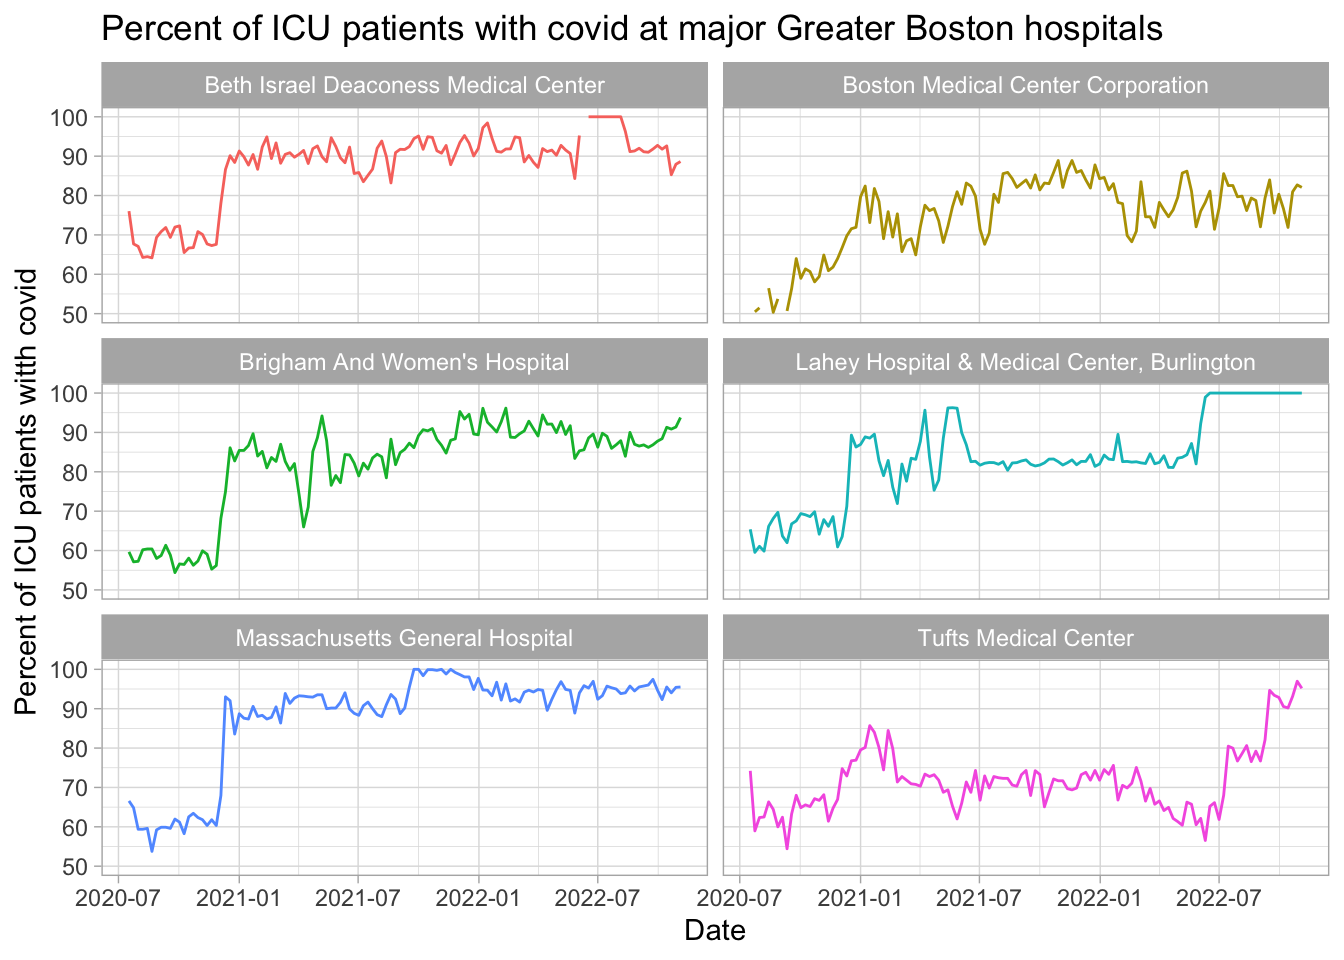
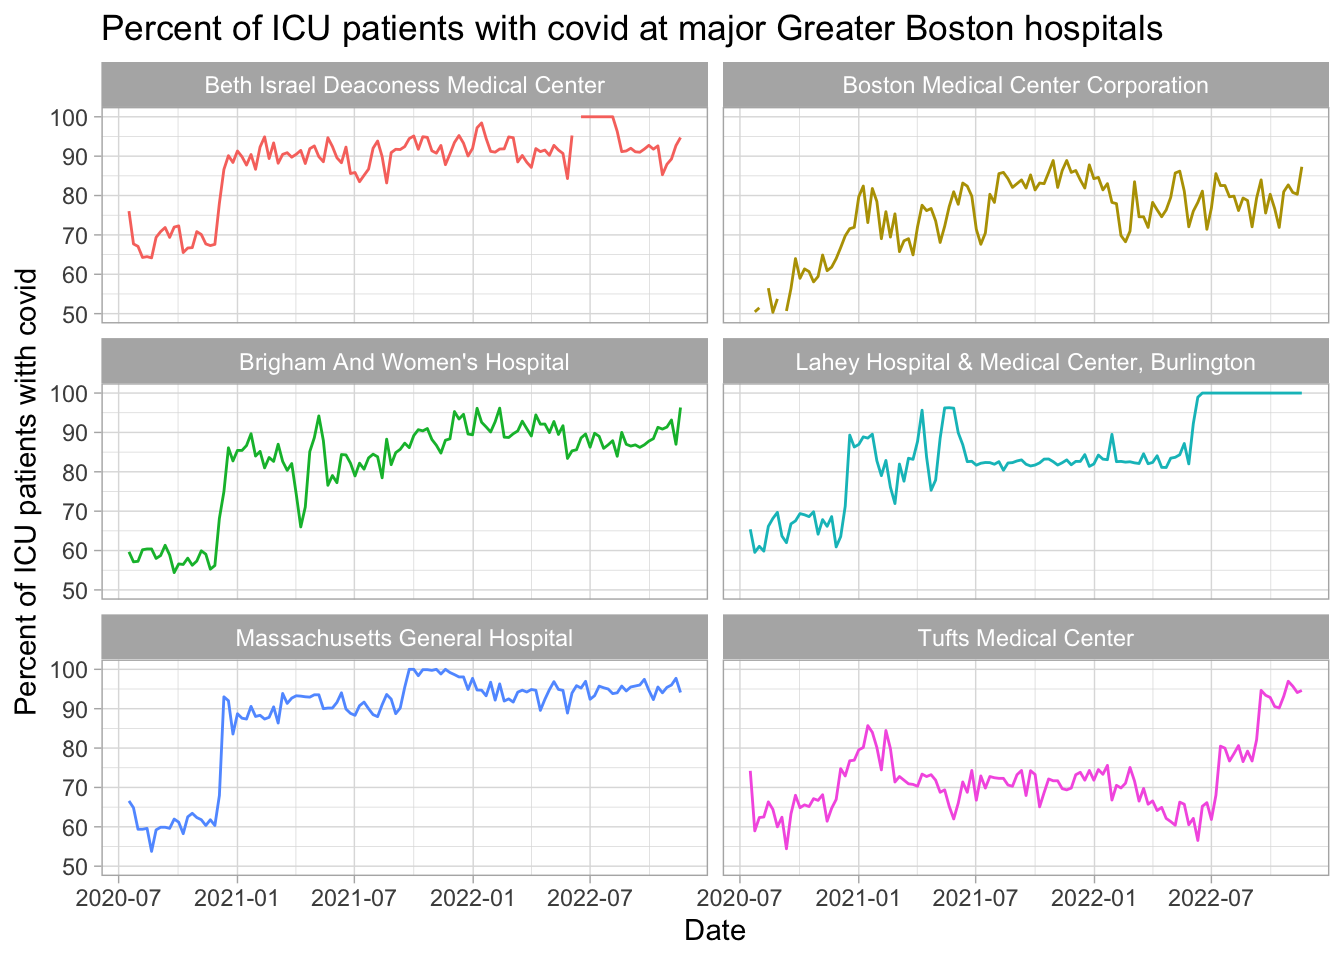
updated data

diff --git a/docs/index.html b/docs/index.html
@@ -307,7 +307,7 @@ it could indicate that many other cases are being missed).</p>
 <p>The US Department of Health and Human Services gives data on hospital
 usage. Here are data of ICU bed availability for hospitals in this area
 with at least 25 staffed ICU beds, using data from the week starting
-2022-11-04.</p>
+2022-11-18.</p>
 <table>
 <colgroup>
 <col width="46%" />
@@ -326,45 +326,45 @@ with at least 25 staffed ICU beds, using data from the week starting
 <tbody>
 <tr class="odd">
 <td align="left">Beth Israel Deaconess Medical Center</td>
-<td align="right">13</td>
-<td align="right">126</td>
-<td align="right">90</td>
+<td align="right">6</td>
+<td align="right">128</td>
+<td align="right">95</td>
 </tr>
 <tr class="even">
 <td align="left">Boston Children’s Hospital</td>
-<td align="right">4</td>
+<td align="right">3</td>
 <td align="right">134</td>
-<td align="right">97</td>
+<td align="right">98</td>
 </tr>
 <tr class="odd">
 <td align="left">Boston Medical Center Corporation</td>
-<td align="right">16</td>
+<td align="right">14</td>
 <td align="right">88</td>
-<td align="right">82</td>
+<td align="right">84</td>
 </tr>
 <tr class="even">
 <td align="left">Brigham And Women’s Hospital</td>
-<td align="right">7</td>
-<td align="right">168</td>
-<td align="right">96</td>
+<td align="right">4</td>
+<td align="right">166</td>
+<td align="right">98</td>
 </tr>
 <tr class="odd">
 <td align="left">Lahey Hospital &amp; Medical Center, Burlington</td>
 <td align="right">0</td>
-<td align="right">41</td>
+<td align="right">40</td>
 <td align="right">100</td>
 </tr>
 <tr class="even">
 <td align="left">Massachusetts General Hospital</td>
-<td align="right">5</td>
-<td align="right">149</td>
-<td align="right">96</td>
+<td align="right">7</td>
+<td align="right">153</td>
+<td align="right">95</td>
 </tr>
 <tr class="odd">
 <td align="left">Tufts Medical Center</td>
-<td align="right">23</td>
+<td align="right">19</td>
 <td align="right">98</td>
-<td align="right">76</td>
+<td align="right">81</td>
 </tr>
 </tbody>
 </table>
@@ -376,7 +376,7 @@ in the state:</p>
 <p>And those intubated:</p>
 <p><img src="index_files/figure-html/unnamed-chunk-7-1.png" width="672" /></p>
 <p>Plotting percentage of ICU patients with covid over time (up to the
-week starting 2022-11-04). Some hospitals have much more frequently
+week starting 2022-11-18). Some hospitals have much more frequently
 updated data than others; some is fairly gappy. This just plots the
 hospitals that average at least 25 staffed <em>adult</em> ICU beds per
 week.</p>

diff --git a/docs/individualhospitals.html b/docs/individualhospitals.html
@@ -302,45 +302,45 @@ usage. Here are data for hospitals in this area.</p>
 <tbody>
 <tr class="odd">
 <td align="left">Beth Israel Deaconess Medical Center</td>
-<td align="right">13</td>
-<td align="right">126</td>
-<td align="right">90</td>
+<td align="right">6</td>
+<td align="right">128</td>
+<td align="right">95</td>
 </tr>
 <tr class="even">
 <td align="left">Boston Children’s Hospital</td>
-<td align="right">4</td>
+<td align="right">3</td>
 <td align="right">134</td>
-<td align="right">97</td>
+<td align="right">98</td>
 </tr>
 <tr class="odd">
 <td align="left">Boston Medical Center Corporation</td>
-<td align="right">16</td>
+<td align="right">14</td>
 <td align="right">88</td>
-<td align="right">82</td>
+<td align="right">84</td>
 </tr>
 <tr class="even">
 <td align="left">Brigham And Women’s Hospital</td>
-<td align="right">7</td>
-<td align="right">168</td>
-<td align="right">96</td>
+<td align="right">4</td>
+<td align="right">166</td>
+<td align="right">98</td>
 </tr>
 <tr class="odd">
 <td align="left">Lahey Hospital &amp; Medical Center, Burlington</td>
 <td align="right">0</td>
-<td align="right">41</td>
+<td align="right">40</td>
 <td align="right">100</td>
 </tr>
 <tr class="even">
 <td align="left">Massachusetts General Hospital</td>
-<td align="right">5</td>
-<td align="right">149</td>
-<td align="right">96</td>
+<td align="right">7</td>
+<td align="right">153</td>
+<td align="right">95</td>
 </tr>
 <tr class="odd">
 <td align="left">Tufts Medical Center</td>
-<td align="right">23</td>
+<td align="right">19</td>
 <td align="right">98</td>
-<td align="right">76</td>
+<td align="right">81</td>
 </tr>
 </tbody>
 </table>
